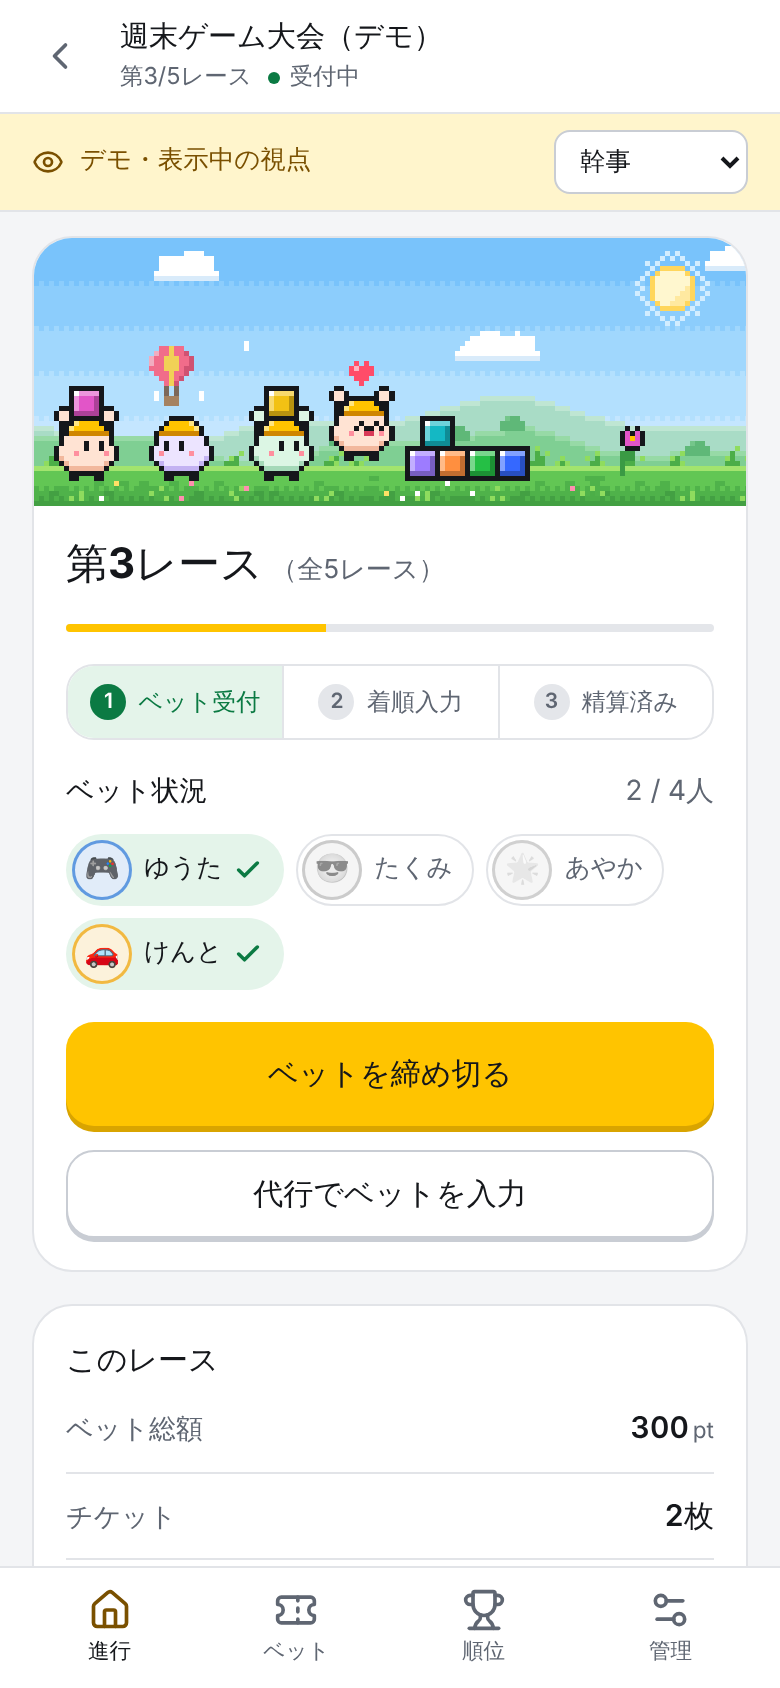
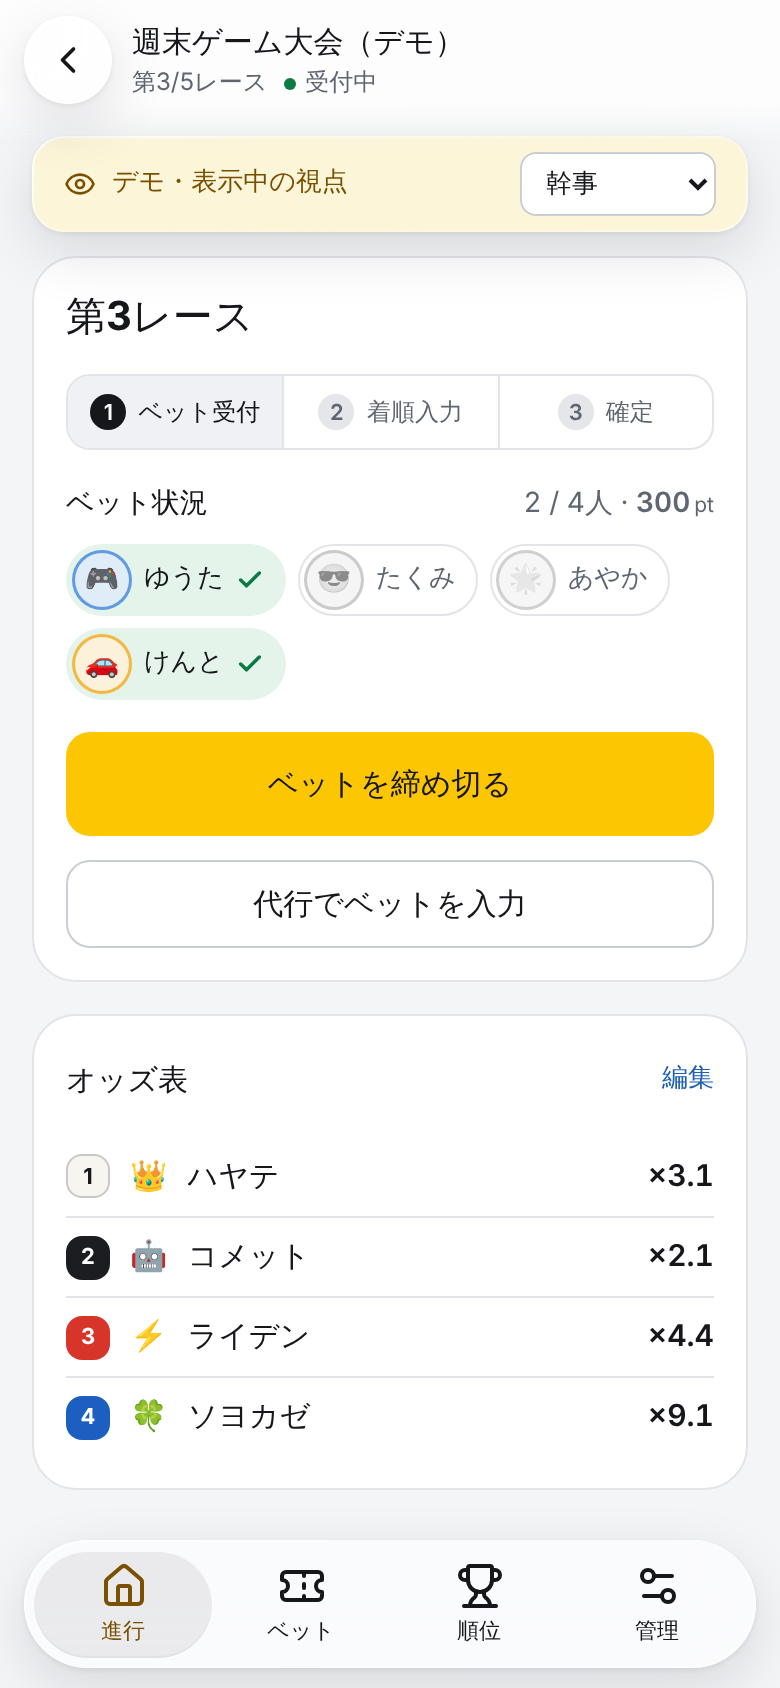
Refresh screenshots, link preview and docs for tickets
README, architecture and security notes describe the Wallet-style
tickets and invitation, the colour roles (neutral structure, brand
yellow, gate colours), the nine landscapes and three lights, and the
optional host name in the rules. Screenshots and og-image.jpg are
regenerated from the current build.

Claude-Session: https://claude.ai/code/session_01YNnn38HFnbdojExXXX8Xbv

diff --git a/docs/ARCHITECTURE.md b/docs/ARCHITECTURE.md
@@ -121,9 +121,10 @@ betting ──締め切る──▶ closed ──着順を確定──▶ settle
 
 ## UI
 
-- 参加者の「レース」タブはレースの状態だけで表示が決まります（`PlayerRaceScreen`）。受付中でチケットがなければベット、あれば締切待ち（取り消し可）、締切後は操作のない「レース中」、確定後は結果と次のレース待ち。幹事が締め切ると、ほかのタブを見ている参加者もこの画面に移動します。状態ごとの色（受付中＝緑、レース中＝オレンジ、確定＝紫）はタグ・ステップ表示・ステータスの点で共通です。
-- 待ち時間の絵は Canvas に描きます。ピクセルアート（`PixelCarriers`）は低解像度のキャンバスを整数倍で拡大し、スプライトは文字列で定義しています。風景（`PainterlyMeadow` / `meadowPainter.ts`）はシード付きの乱数で筆致を生成し、約8msずつに分けて描くのでメインスレッドを長く止めません。どちらも画面外・非表示のタブでは停止し、`prefers-reduced-motion` では静止画です。風景は `React.lazy` でレース中に初めて読み込みます。
+- 参加者の「レース」タブはレースの状態だけで表示が決まります（`PlayerRaceScreen`）。チケットがなければベット画面、あればチケットだけを表示します。チケット（`BetPass`）は Apple Wallet の搭乗券の構成で、半券に状態（受付済み・レース中・的中・不的中・無効）と、その時の唯一の操作（取り消す／結果を見る）を載せます。本体と半券は別要素で、切り欠きはマスクで抜いているため影も形に沿います。幹事が締め切ると、ほかのタブを見ている参加者もこの画面に移動します。
+- 色は役割で分けています。土台は中立色、ブランドの黄色は主要な操作と選択中のタブ、状態の色（受付中・レース中・確定）はステータスの点だけ。対戦者は競馬の枠色を枠番から割り当て（`frameColor`）、チケットはその色で印刷します。文字サイズは iOS に近い10段階、角丸は5種類のトークンにまとめています（`tokens.css`）。
+- チケットの絵（`PainterlyMeadow` / `meadowPainter.ts`）は Canvas に描く風景です。9種類の場所と3つの光の組み合わせを `sceneForRace`（`lib/pass.ts`）が12レース周期で選び、隣り合うレースで場所も光も重なりません。シード付きの乱数で筆致を生成し、約8msずつに分けて描くのでメインスレッドを長く止めません。静止したチケットは1枚描くだけで、動くのはレース中のチケットのみ。画面外・非表示のタブ・`prefers-reduced-motion` では止まります。`React.lazy` で初めて必要になった時に読み込みます。
 - 画面遷移は `useNavigation` のスタックで管理し、`history.pushState` と同期させてブラウザの戻る操作に対応しています。画面が変わるとスクロールを先頭に戻し、フォーカスを新しい内容に移します。
 - 文言は `t("日本語", "English", params)` の形でコンポーネントの近くに書いています。日本語と英語が原文で、ほかの7言語（中国語・韓国語・スペイン語・フランス語・ドイツ語・イタリア語・ウクライナ語）は英語の原文をキーにしたカタログ（`src/i18n/locales/`）から引きます。差し込み値は `{name}`、複数形は ICU 形式（`{count, plural, one {...} other {...}}`）で、ウクライナ語のような複数の複数形にも対応しています。カタログは選択中の言語だけを読み込みます。コードから使われている文言をすべて抽出し、各カタログに漏れや余分がないかをテストで確認しています（`src/i18n/__tests__/catalogs.test.ts`）。
-- 上部バー、フローティングのタブバー、シート、トースト、待機画面のカードは、Apple の Liquid Glass にならった半透明の素材です（`src/styles/glass.css`）。背景をぼかして彩度を上げ、縁に光の当たるハイライトを付けています。一覧や数字などの内容は不透明なカードのままにして読みやすさを保ちます。「透明度を下げる」「コントラストを上げる」の設定や、`backdrop-filter` に対応していないブラウザでは不透明になります。
+- 上部バーのボタン、フローティングのタブバーとレース状況のカプセル、シート、トーストは、Apple の Liquid Glass にならった半透明の素材です（`src/styles/glass.css`）。背景をぼかして彩度を上げ、縁に光の当たるハイライトを付けています。一覧や数字などの内容は不透明なカードのままにして読みやすさを保ちます。「透明度を下げる」「コントラストを上げる」の設定や、`backdrop-filter` に対応していないブラウザでは不透明になります。
 - CSS はデザイントークン（色・角丸・影）を `:root` と `[data-theme="dark"]` に定義し、ライトとダークをそれぞれ設計しています。グラフの系列色は色覚多様性に配慮した順序で、ライト／ダークそれぞれの背景で検証しています。

diff --git a/docs/SECURITY.md b/docs/SECURITY.md
@@ -37,7 +37,7 @@
 
 1. CI（`validate.yml`）がすべて通っていることを確認する。
 2. **ルールを先に公開してよいか確認する。** 新ルールが旧クライアントの書き込みも受け付けるならルールが先、受け付けないならクライアントが先。
-   - 今回のリリースは**ルールが先**。ルールの変更は「参加者レコードの任意項目 `joinedAt`」と「締切前に自分のベットを削除できる」の2点で、どちらも旧クライアントの書き込みはそのまま受け付ける。新クライアントは `joinedAt` を書くため、旧ルールのままだと参加と代行参加者の追加が拒否される。
+   - 今回のリリースは**ルールが先**。ルールの変更は「参加者レコードの任意項目 `joinedAt`」「締切前に自分のベットを削除できる」「ルームの任意項目 `hostName`（40文字以内、幹事のみ書き込み可）」の3点で、どれも旧クライアントの書き込みはそのまま受け付ける。新クライアントは `joinedAt` と、入力があれば `hostName` を書くため、旧ルールのままだと参加・代行参加者の追加・幹事名つきのルーム作成が拒否される。
 3. Firebase Console またはCLIで `firebase.rules.json` を反映する。
 4. `main` に merge し、GitHub Pages のデプロイ完了を確認する。
 5. 実機で、ルーム作成 → QR招待で参加 → ベット → 締切 → 精算 → 次のレース を確認する。予期しない拒否が出たらロールバックする。
